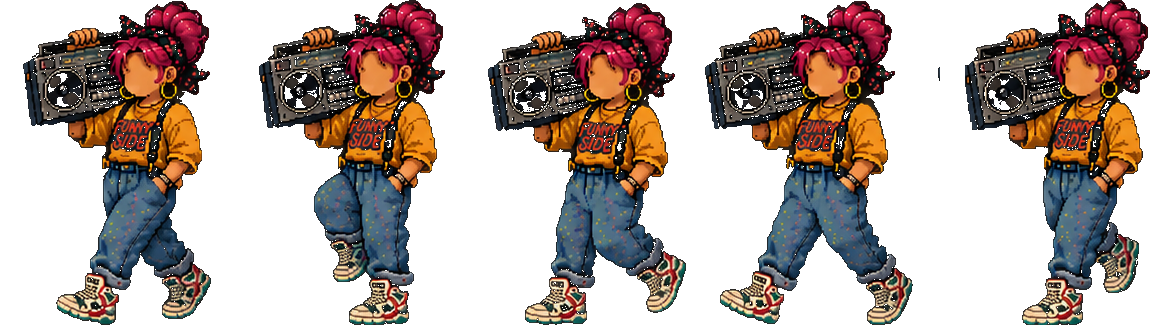
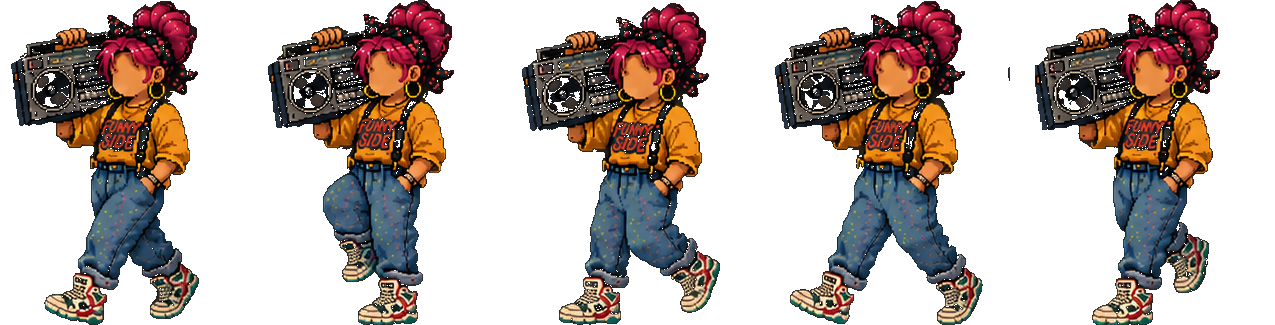
fix(site-pet): torso-aligned walk cycle, slower step rate
Bring the 5-frame walk cycle back, but with two fixes that addressed the
glitchy feel of the earlier attempt:

- Frames are now horizontally aligned by torso centroid (not bbox
  centre). Previously the body jerked left/right between frames because
  frame 4 was wider than the others (arm + boombox extended further out),
  so bbox-centering pushed the character body off-axis. Torso-aligned
  frames keep the body pinned and let only legs + boombox arm move.
- Slowed from 600ms / 5 frames (~8 fps) to 800ms / 5 frames (~6 fps).
  Reads as a stride at this scale instead of a flicker.

diff --git a/app/components/SitePet.jsx b/app/components/SitePet.jsx
@@ -28,13 +28,15 @@ const PHRASES_DIZZY = ["whoa", "dizzy…", "easy!"];
 // circle behind the character — the raw transparent PNG is what's drawn
 // on the page.
 //
-// WALK uses frame 1 of the Figma 164:1332 walk sheet (left leg striding
-// forward, boombox on shoulder) as a single static pose. We tried
-// cycling all 5 frames but at this scale the stepping read as a flicker,
-// not a stride, so we picked the most readable silhouette and held it.
+// WALK is the 5-frame walk cycle from Figma 164:1332. The strip was
+// re-extracted with TORSO-CENTROID horizontal alignment (not bbox-
+// centre) — the character's body stays put across frames so only the
+// legs and the boombox-bearing arm move. CSS animates background-
+// position through steps(5) to advance the frame. See .site-pet__sprite
+// in globals.css.
 const POSES = {
   idle:  "/images/agents-poses/funny-side-front.png",       // standing, hands in pockets
-  walk:  "/images/agents-poses/funny-side-walk-static.png", // mid-stride with boombox
+  walk:  "/images/agents-poses/funny-side-walk-cycle.png",  // 5-frame strip
   sit:   "/images/agents-poses/funny-side-pointing.png",    // seated, chin on fist
   point: "/images/agents-poses/funny-side-action.png",      // finger pointed out
 };
@@ -346,15 +348,21 @@ export default function SitePet() {
         style={{ "--pet-flip": flip }}
         aria-label="Friendly site mascot — click to pet"
       >
-        {/* Inner wrapper carries the bob/walk/dizzy animations so they
-            don't overwrite the scaleX flip on the button. */}
+        {/* Inner wrapper carries the bob/dizzy animations so they don't
+            overwrite the scaleX flip on the button. WALK swaps to a
+            background-image sprite so we can step through 5 frames; all
+            other states render the static <img>. */}
         <span className="site-pet__inner">
-          <img
-            src={poseUrl}
-            alt=""
-            draggable={false}
-            className="site-pet__img"
-          />
+          {state === STATE.WALK ? (
+            <span className="site-pet__sprite" aria-hidden="true" />
+          ) : (
+            <img
+              src={poseUrl}
+              alt=""
+              draggable={false}
+              className="site-pet__img"
+            />
+          )}
         </span>
       </button>
     </div>

diff --git a/app/globals.css b/app/globals.css
@@ -274,6 +274,33 @@ body.shopos-hero.shopos-nav-solid header button {
   image-rendering: crisp-edges;
 }
 
+/* WALK state — 5-frame torso-aligned walk cycle from Figma 164:1332.
+   Strip layout: 5 frames laid out horizontally, each frame the same
+   size, character's torso pinned to the same x in every frame so only
+   legs + boombox arm animate (the body itself doesn't jerk between
+   frames — that was what made the earlier version read as a glitch).
+
+   background-size: 500% 100% scales the strip so ONE frame fills the
+   container. background-position 0% → 100% with steps(5) walks through
+   frames 1 → 5; one full cycle takes 800ms (~6 fps — a slower, more
+   deliberate gait than the earlier 8fps version). */
+.site-pet__sprite {
+  display: block;
+  width: 100%;
+  height: 100%;
+  background-image: url("/images/agents-poses/funny-side-walk-cycle.png");
+  background-repeat: no-repeat;
+  background-size: 500% 100%;
+  background-position: 0% 100%;
+  image-rendering: pixelated;
+  image-rendering: crisp-edges;
+  animation: site-pet-walk-cycle 0.8s steps(5) infinite;
+}
+@keyframes site-pet-walk-cycle {
+  from { background-position: 0%   100%; }
+  to   { background-position: 100% 100%; }
+}
+
 
 @keyframes site-pet-bob {
   0%, 100% { transform: translateY(0); }
